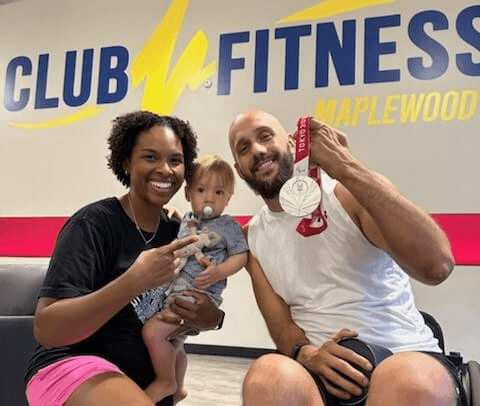
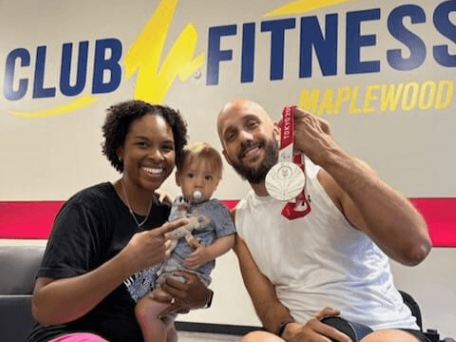
resize images anmd format date

diff --git a/app/ui/blogPost.js b/app/ui/blogPost.js
@@ -50,8 +50,36 @@ export default function BlogPost({
 
   return (
     <>
+    <div className="flex flex-col items-center w-full h-auto mb-12 shadow-2xl relative">
+        <div className="text-center w-72 mt-3 -mb-4">
+          <p className="font-bold text-wrap">{title}</p>
+          <p className="text-sm">{formatDate(post_date)}</p>
+        </div>
+        <div id="image-div" className="w-72 h-72 -mb-2">
+          <Image
+            className="shadow-xl mt-6"
+            src={image_src}
+            width={image_width}
+            height={image_height}
+            alt={image_alt}
+            priority={priority}
+          />
+        </div>
+        <div className="text-center w-72 mb-12">
+          <p className="mb-6 text-balance text-left text-md mt-2">
+            {shortenPostText(text[0], 200)}
+            <br />
+            <span
+              className="inline-flex items-center font-bold hover:cursor-pointer hover:scale-105 transition-transform mt-1"
+              onClick={() => setBlogPostOpen(true)}
+              tabIndex={0}>
+              READ MORE <IoIosArrowRoundForward className="text-2xl" />
+            </span>
+          </p>
+        </div>
+      </div>
       {/* Trigger and Preview Section */}
-      <div className="flex flex-col items-center w-full h-auto mb-12 shadow-2xl relative">
+      {/* <div className="flex flex-col items-center w-full h-auto mb-12 shadow-2xl relative">
         <div className="text-center w-72 mt-3 -mb-4">
           <h3 className="font-bold text-wrap">{title}</h3>
           <h4 className="text-sm">{formatDate(post_date)}</h4>
@@ -81,7 +109,7 @@ export default function BlogPost({
             <MMMLineLogoBlack />
           </div>
         </div>
-      </div>
+      </div> */}
       {/* Dialog Section */}
       <Dialog
         open={blogPostOpen}

diff --git a/app/lib/blogPostData.js b/app/lib/blogPostData.js
@@ -110,8 +110,8 @@ export const blogPosts = [
     title: "Olympic Fever",
     post_date: "8/29/2024",
     image_src: "/images/blog-page/blog-post-images/ericNewby.png",
-    image_width: 480,
-    image_height: 406,
+    image_width: 456,
+    image_height: 342,
     image_alt:
       "Rachel from MMM with Eric Newby, captain of the USA Wheelchair Rugby team",
     second_image_src: "/images/blog-page/blog-post-images/rachelJJK.png",
@@ -162,9 +162,9 @@ export const blogPosts = [
   {
     title: "Dayton, Ohio Adventure - From Video Shoots to Bar Arcades",
     post_date: "2024-5-8",
-    image_src: "/images/blog-page/blog-post-images/philMay.jpg",
-    image_width: 806,
-    image_height: 453,
+    image_src: "/images/blog-page/blog-post-images/05-08-2024.png",
+    image_width: 456,
+    image_height: 4342,
     image_alt: "Welcome to Ohio sign on a bridge overpass viewed from the dashboard of a car",
     text: [
       "Hello and thank you for reading my blogpost! I'm Phillip, a passionate videographer and editor with Mike Martin Media. I recently embarked on a memorable work trip to Dayton, Ohio. Dayton greeted us with open arms. Although the weather was bitter cold, the welcome from our client and the town was warm. This wasn't just a business trip; it was the beginning of a story waiting to be told through our lenses.",

diff --git a/app/lib/utils.js b/app/lib/utils.js
@@ -21,14 +21,19 @@ export function validateForm(firstName, lastName, email, phone, message) {
 export function formatDate(post_date) {
   const date = new Date(post_date);
 
-  const monthNames = [
-      'January', 'February', 'March', 'April', 'May', 'June',
-      'July', 'August', 'September', 'October', 'November', 'December'
+  // const monthNames = [
+  //     'January', 'February', 'March', 'April', 'May', 'June',
+  //     'July', 'August', 'September', 'October', 'November', 'December'
+  // ];
+
+  const monthNamesShort = [
+      'Jan', 'Feb', 'Mar', 'Apr', 'May', 'Jun',
+      'Jul', 'Aug', 'Sep', 'Oct', 'Nov', 'Dec'
   ];
 
   const day = date.getDate();
   const monthIndex = date.getMonth();
   const year = date.getFullYear();
 
-  return `${monthNames[monthIndex]} ${day}, ${year}`;
+  return `${monthNamesShort[monthIndex].toUpperCase()} ${day}, ${year}`;
 }
